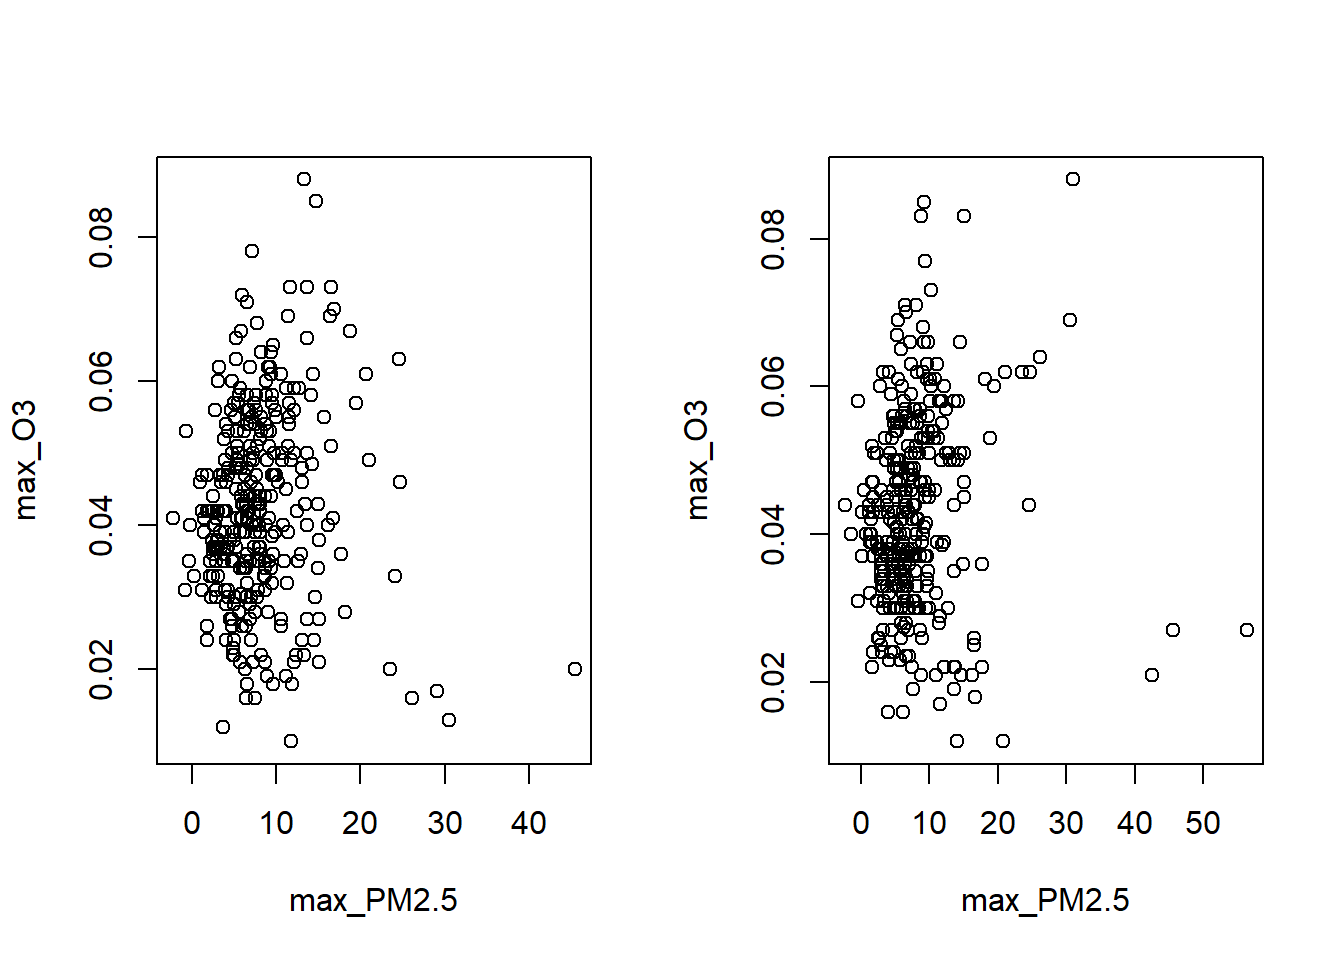
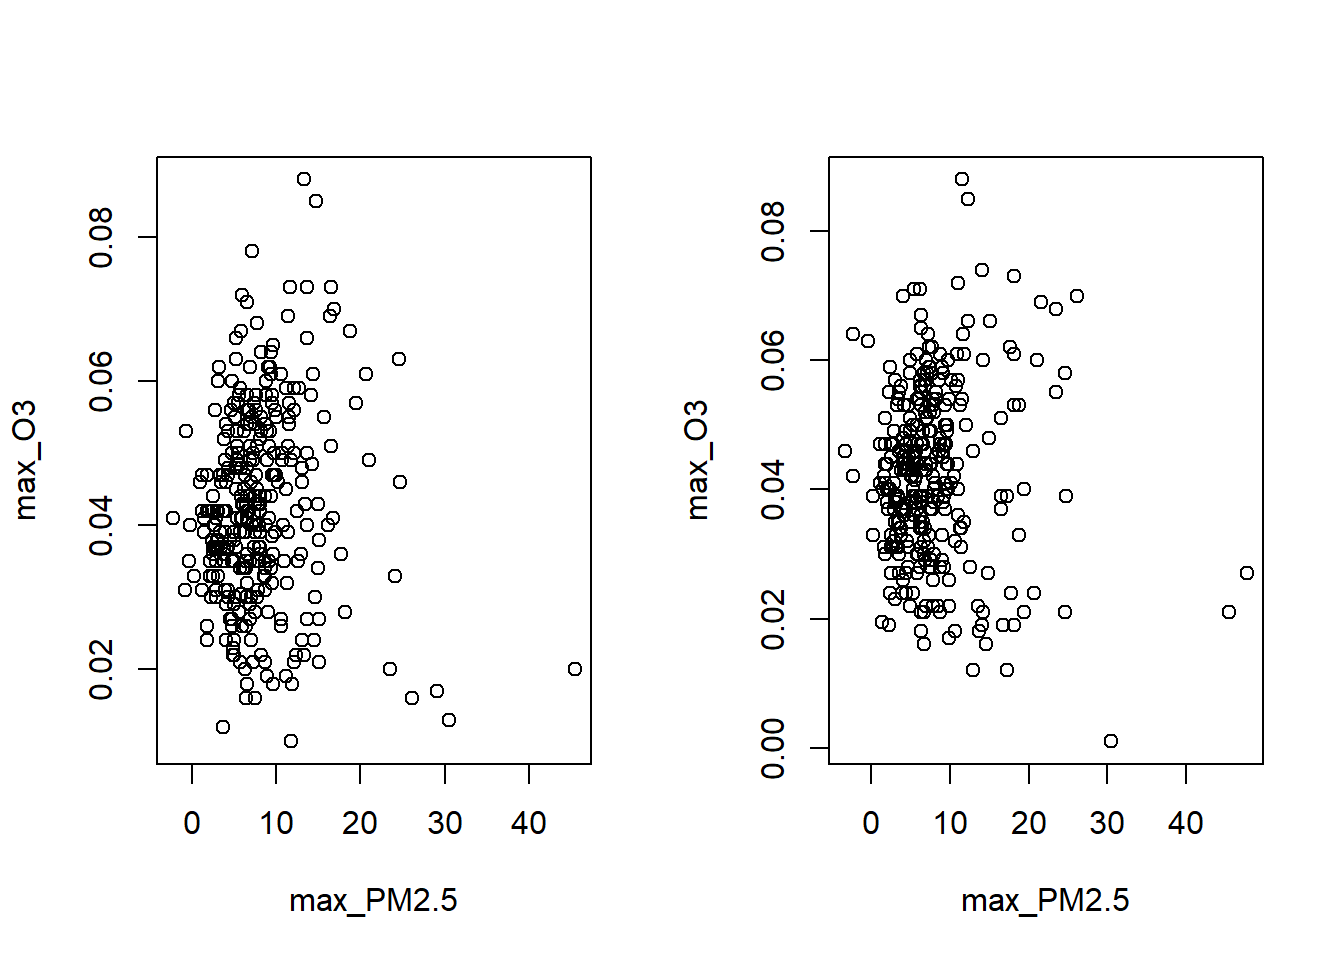
Example_update

diff --git a/Useable/Examples.html b/Useable/Examples.html
@@ -194,9 +194,7 @@ pre > code.sourceCode > span > a:first-child::before { text-decoration: underlin
 <h2 class="anchored" data-anchor-id="descriptive-statistics-with-missing-values"><strong>1) Descriptive statistics with missing values</strong></h2>
 <p>We start by inspecting various plots for the missing values:</p>
 <div class="cell">
-<div class="sourceCode cell-code" id="cb7"><pre class="sourceCode r code-with-copy"><code class="sourceCode r"><span id="cb7-1"><a href="#cb7-1" aria-hidden="true" tabindex="-1"></a><span class="co"># also on Rmistatic maybe you can use the same simulations: https://rmisstastic.netlify.app/how-to/impute/missimp</span></span>
-<span id="cb7-2"><a href="#cb7-2" aria-hidden="true" tabindex="-1"></a></span>
-<span id="cb7-3"><a href="#cb7-3" aria-hidden="true" tabindex="-1"></a>res<span class="ot">&lt;-</span><span class="fu">summary</span>(<span class="fu">aggr</span>(X, <span class="at">sortVar=</span><span class="cn">TRUE</span>))<span class="sc">$</span>combinations</span></code><button title="Copy to Clipboard" class="code-copy-button"><i class="bi"></i></button></pre></div>
+<div class="sourceCode cell-code" id="cb7"><pre class="sourceCode r code-with-copy"><code class="sourceCode r"><span id="cb7-1"><a href="#cb7-1" aria-hidden="true" tabindex="-1"></a>res<span class="ot">&lt;-</span><span class="fu">summary</span>(<span class="fu">aggr</span>(X, <span class="at">sortVar=</span><span class="cn">TRUE</span>))<span class="sc">$</span>combinations</span></code><button title="Copy to Clipboard" class="code-copy-button"><i class="bi"></i></button></pre></div>
 <div class="cell-output-display">
 <p><img src="Examples_files/figure-html/unnamed-chunk-2-1.png" class="img-fluid" width="672"></p>
 </div>
@@ -309,9 +307,9 @@ pre > code.sourceCode > span > a:first-child::before { text-decoration: underlin
 <span id="cb17-2"><a href="#cb17-2" aria-hidden="true" tabindex="-1"></a><span class="fu">colMeans</span>(Xstar)<span class="sc">-</span><span class="fu">colMeans</span>(Ximp)</span></code><button title="Copy to Clipboard" class="code-copy-button"><i class="bi"></i></button></pre></div>
 <div class="cell-output cell-output-stdout">
 <pre><code>                max_PM2.5                    max_O3                  max_PM10 
-              -0.00055750               -0.00010875               -0.08750000 
+               0.02988000                0.00006825               -0.08600000 
                 Longitude                  Latitude                 Elevation 
-               0.01079986                0.00000000                0.30679520 
+              -0.03243501                0.00000000                0.19050000 
     Land.Use_AGRICULTURAL       Land.Use_COMMERCIAL       Land.Use_INDUSTRIAL 
                0.00000000                0.00000000                0.00000000 
    Location.Setting_RURAL Location.Setting_SUBURBAN 
@@ -319,43 +317,44 @@ pre > code.sourceCode > span > a:first-child::before { text-decoration: underlin
 </div>
 <div class="sourceCode cell-code" id="cb19"><pre class="sourceCode r code-with-copy"><code class="sourceCode r"><span id="cb19-1"><a href="#cb19-1" aria-hidden="true" tabindex="-1"></a><span class="fu">norm</span>(<span class="fu">cov</span>(Xstar) <span class="sc">-</span> <span class="fu">cov</span>(Ximp))<span class="sc">/</span><span class="fu">norm</span>(<span class="fu">cov</span>(Xstar))</span></code><button title="Copy to Clipboard" class="code-copy-button"><i class="bi"></i></button></pre></div>
 <div class="cell-output cell-output-stdout">
-<pre><code>[1] 0.001539471</code></pre>
+<pre><code>[1] 0.003579673</code></pre>
 </div>
 </div>
 </section>
 <section id="analyse" class="level2">
 <h2 class="anchored" data-anchor-id="analyse"><strong>3) Analyse</strong></h2>
 <div class="cell">
-<div class="sourceCode cell-code" id="cb21"><pre class="sourceCode r code-with-copy"><code class="sourceCode r"><span id="cb21-1"><a href="#cb21-1" aria-hidden="true" tabindex="-1"></a><span class="co"># Apply a regression to the mulitple imputation</span></span>
+<div class="sourceCode cell-code" id="cb21"><pre class="sourceCode r code-with-copy"><code class="sourceCode r"><span id="cb21-1"><a href="#cb21-1" aria-hidden="true" tabindex="-1"></a><span class="co"># Apply a regression to the multiple imputation</span></span>
 <span id="cb21-2"><a href="#cb21-2" aria-hidden="true" tabindex="-1"></a>lm.mice.out <span class="ot">&lt;-</span> <span class="fu">with</span>(imp.mice, <span class="fu">lm</span>(max_O3 <span class="sc">~</span> max_PM2<span class="fl">.5</span> <span class="sc">+</span>Longitude <span class="sc">+</span>Latitude <span class="sc">+</span>Elevation <span class="sc">+</span>Land.Use_AGRICULTURAL<span class="sc">+</span>Land.Use_COMMERCIAL<span class="sc">+</span>Land.Use_INDUSTRIAL<span class="sc">+</span>Location.Setting_RURAL<span class="sc">+</span>Location.Setting_SUBURBAN))</span>
 <span id="cb21-3"><a href="#cb21-3" aria-hidden="true" tabindex="-1"></a></span>
 <span id="cb21-4"><a href="#cb21-4" aria-hidden="true" tabindex="-1"></a></span>
-<span id="cb21-5"><a href="#cb21-5" aria-hidden="true" tabindex="-1"></a><span class="co"># Use Rubins Rules to aggregate the estimates</span></span>
-<span id="cb21-6"><a href="#cb21-6" aria-hidden="true" tabindex="-1"></a>res<span class="ot">&lt;-</span><span class="fu">pool</span>(lm.mice.out)</span>
-<span id="cb21-7"><a href="#cb21-7" aria-hidden="true" tabindex="-1"></a><span class="fu">summary</span>(res)</span></code><button title="Copy to Clipboard" class="code-copy-button"><i class="bi"></i></button></pre></div>
+<span id="cb21-5"><a href="#cb21-5" aria-hidden="true" tabindex="-1"></a></span>
+<span id="cb21-6"><a href="#cb21-6" aria-hidden="true" tabindex="-1"></a><span class="co"># Use Rubins Rules to aggregate the estimates</span></span>
+<span id="cb21-7"><a href="#cb21-7" aria-hidden="true" tabindex="-1"></a>res<span class="ot">&lt;-</span><span class="fu">pool</span>(lm.mice.out)</span>
+<span id="cb21-8"><a href="#cb21-8" aria-hidden="true" tabindex="-1"></a><span class="fu">summary</span>(res)</span></code><button title="Copy to Clipboard" class="code-copy-button"><i class="bi"></i></button></pre></div>
 <div class="cell-output cell-output-stdout">
-<pre><code>                        term      estimate    std.error    statistic        df
-1                (Intercept)  3.884093e-02 3.806153e-03 10.204772977  702.8838
-2                  max_PM2.5  1.216615e-04 5.599256e-05  2.172816218  498.3103
-3                  Longitude -1.157515e-05 2.074234e-05 -0.558044353  840.4867
-4                   Latitude  6.593801e-07 7.466715e-05  0.008830927  782.8715
-5                  Elevation -1.096344e-06 6.969435e-07 -1.573073766 1222.1328
-6      Land.Use_AGRICULTURAL  1.474898e-05 1.482957e-03  0.009945656  419.6629
-7        Land.Use_COMMERCIAL  7.179653e-04 7.009772e-04  1.024234839 1145.4176
-8        Land.Use_INDUSTRIAL -1.941025e-03 1.861652e-03 -1.042635661  526.5235
-9     Location.Setting_RURAL  1.792046e-03 1.226410e-03  1.461212878  505.3161
-10 Location.Setting_SUBURBAN  9.278167e-04 6.718359e-04  1.381016885 1794.9600
+<pre><code>                        term      estimate    std.error   statistic        df
+1                (Intercept)  3.929489e-02 3.757540e-03 10.45761017  988.7992
+2                  max_PM2.5  1.159419e-04 5.819645e-05  1.99224975  212.2122
+3                  Longitude -9.544637e-06 2.051607e-05 -0.46522743 1130.0248
+4                   Latitude -3.530013e-06 7.328762e-05 -0.04816657 1291.7748
+5                  Elevation -1.088580e-06 6.931284e-07 -1.57053192 1458.9054
+6      Land.Use_AGRICULTURAL -7.699460e-05 1.464395e-03 -0.05257776  546.3266
+7        Land.Use_COMMERCIAL  7.415961e-04 7.020305e-04  1.05635886 1087.1609
+8        Land.Use_INDUSTRIAL -1.900513e-03 1.832379e-03 -1.03718315  772.5075
+9     Location.Setting_RURAL  1.871732e-03 1.275582e-03  1.46735561  235.1812
+10 Location.Setting_SUBURBAN  8.131452e-04 7.029311e-04  1.15679215  555.0273
         p.value
-1  6.790652e-23
-2  3.026463e-02
-3  5.769627e-01
-4  9.929563e-01
-5  1.159606e-01
-6  9.920694e-01
-7  3.059406e-01
-8  2.975955e-01
-9  1.445786e-01
-10 1.674457e-01</code></pre>
+1  2.385199e-24
+2  4.762533e-02
+3  6.418582e-01
+4  9.615909e-01
+5  1.165083e-01
+6  9.580876e-01
+7  2.910390e-01
+8  2.999750e-01
+9  1.436154e-01
+10 2.478549e-01</code></pre>
 </div>
 </div>
 <p>Importantly, this works here because we have all the ingredients for the pool function, which are (according to ?pool):</p>
@@ -405,19 +404,19 @@ F-statistic: 1.644 on 9 and 1990 DF,  p-value: 0.09762</code></pre>
 <div class="sourceCode cell-code" id="cb25"><pre class="sourceCode r code-with-copy"><code class="sourceCode r"><span id="cb25-1"><a href="#cb25-1" aria-hidden="true" tabindex="-1"></a><span class="fu">cbind</span>(<span class="fu">round</span>( (res<span class="sc">$</span>pooled<span class="sc">$</span>estimate<span class="sc">-</span>res.not.attainable<span class="sc">$</span>coefficients)<span class="sc">/</span>res.not.attainable<span class="sc">$</span>coefficients, <span class="dv">3</span>)  )</span></code><button title="Copy to Clipboard" class="code-copy-button"><i class="bi"></i></button></pre></div>
 <div class="cell-output cell-output-stdout">
 <pre><code>                              [,1]
-(Intercept)                 -0.051
-max_PM2.5                   -0.068
-Longitude                 -881.585
-Latitude                    -1.026
-Elevation                    0.175
-Land.Use_AGRICULTURAL       -0.952
-Land.Use_COMMERCIAL          0.199
-Land.Use_INDUSTRIAL          0.092
-Location.Setting_RURAL      -0.048
-Location.Setting_SUBURBAN    0.075</code></pre>
+(Intercept)                 -0.040
+max_PM2.5                   -0.111
+Longitude                 -727.113
+Latitude                    -0.859
+Elevation                    0.166
+Land.Use_AGRICULTURAL       -1.250
+Land.Use_COMMERCIAL          0.239
+Land.Use_INDUSTRIAL          0.069
+Location.Setting_RURAL      -0.006
+Location.Setting_SUBURBAN   -0.058</code></pre>
 </div>
 </div>
-<p>This example is a very simple i.i.d. example as we have treated throughout this workshop. Of course there are many more challenges, especially also for data that may be partly dependent (for instance repeat measurement or panel data). Please refer to the provided links for more information. In particular also the task view on <a href="https://cran.r-project.org/web/views/MissingData.html">missing data</a>.</p>
+<p>Of course there are many more challenges, especially also for data that may be partly dependent (for instance repeat measurement or panel data). Most importantly, mice-cart is awesome, but it does not model the uncertainty of the missing imputation itself. As such it is technically not a proper imputation method, as one part of the uncertainty is missing. This could be an issue for confidence intervals and p-values especially in smaller samples. We also refer to the provided links for more information. In particular also the task view on <a href="https://cran.r-project.org/web/views/MissingData.html">missing data</a>.</p>
 </section>
 </section>
 
